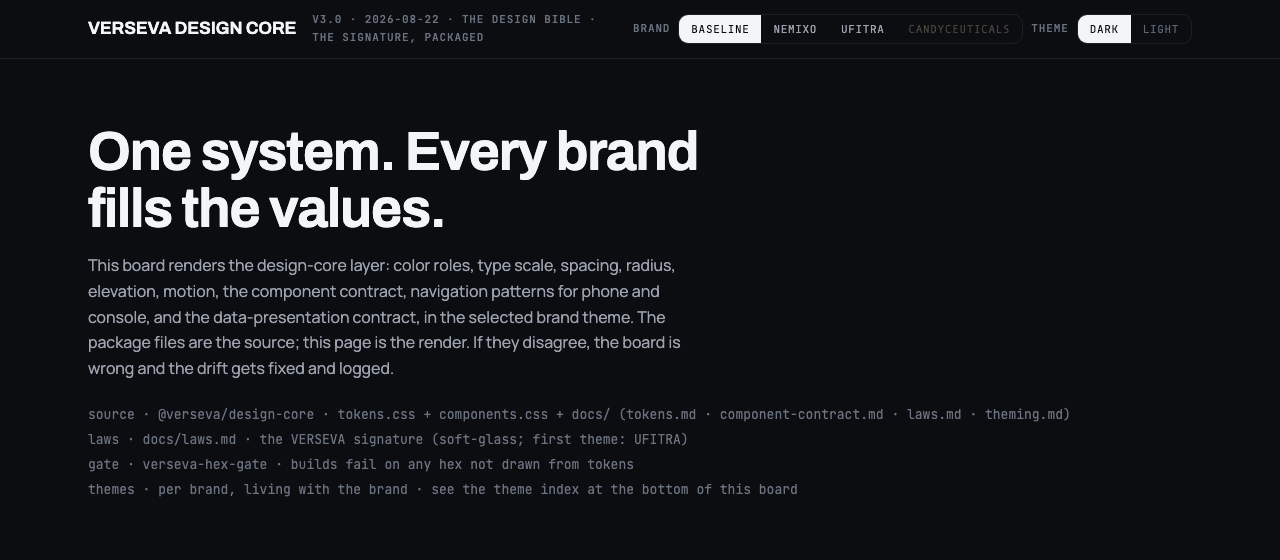
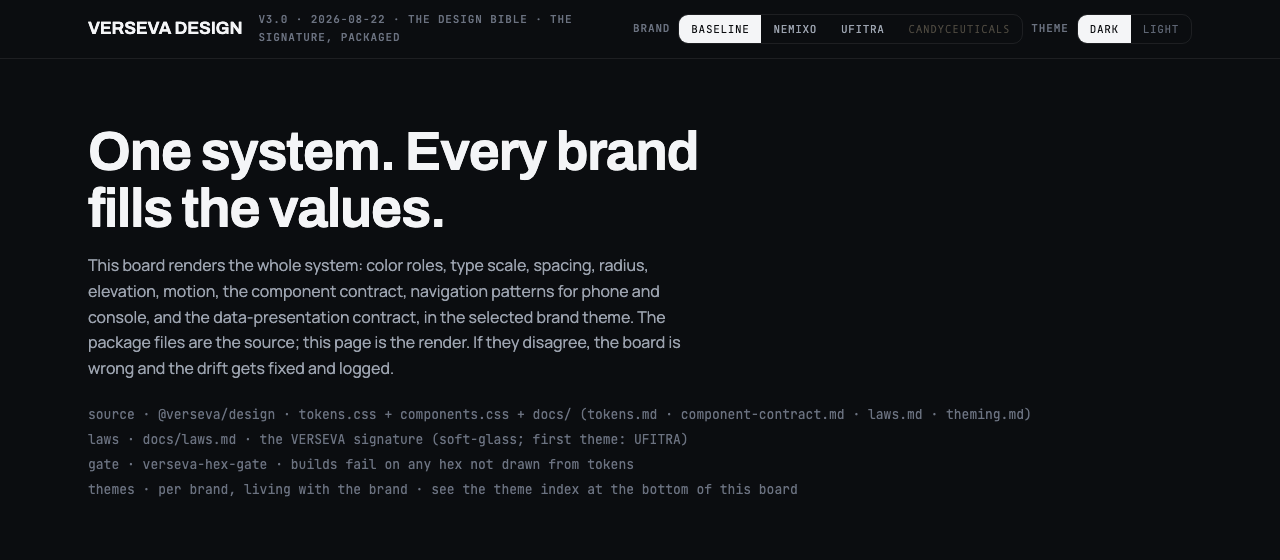
The package is @verseva/design
Simple, like the product: VERSEVA Design. Repo, product name, and npm name now
agree (verseva/design · VERSEVA Design · @verseva/design). All import
specifiers, docs, board chrome, and the hero screenshot updated; version
0.1.1; no value changes.

diff --git a/board/index.html b/board/index.html
@@ -3,7 +3,7 @@
 <head>
 <meta charset="utf-8">
 <meta name="viewport" content="width=device-width, initial-scale=1">
-<title>VERSEVA Design Core · Board</title>
+<title>VERSEVA Design · Board</title>
 <link rel="preconnect" href="https://fonts.googleapis.com">
 <link rel="preconnect" href="https://fonts.gstatic.com" crossorigin>
 <link rel="stylesheet" href="https://fonts.googleapis.com/css2?family=Archivo:wght@100..900&family=Manrope:wght@200..800&family=JetBrains+Mono:wght@100..800&display=swap">
@@ -427,7 +427,7 @@ footer.board .inner{max-width:var(--container-content);margin:0 auto;padding:var
 
 <header class="board">
   <div class="board-inner">
-    <div class="board-title">VERSEVA DESIGN CORE</div>
+    <div class="board-title">VERSEVA DESIGN</div>
     <div class="board-meta label">v3.0 · 2026-08-22 · the design bible · the signature, packaged</div>
     <div class="controls">
       <span class="label">Brand</span>
@@ -449,9 +449,9 @@ footer.board .inner{max-width:var(--container-content);margin:0 auto;padding:var
 <main>
   <section class="hero">
     <h1>One system. Every brand fills the values.</h1>
-    <p>This board renders the design-core layer: color roles, type scale, spacing, radius, elevation, motion, the component contract, navigation patterns for phone and console, and the data-presentation contract, in the selected brand theme. The package files are the source; this page is the render. If they disagree, the board is wrong and the drift gets fixed and logged.</p>
+    <p>This board renders the whole system: color roles, type scale, spacing, radius, elevation, motion, the component contract, navigation patterns for phone and console, and the data-presentation contract, in the selected brand theme. The package files are the source; this page is the render. If they disagree, the board is wrong and the drift gets fixed and logged.</p>
     <div class="paths">
-      <div>source · @verseva/design-core · tokens.css + components.css + docs/ (tokens.md · component-contract.md · laws.md · theming.md)</div>
+      <div>source · @verseva/design · tokens.css + components.css + docs/ (tokens.md · component-contract.md · laws.md · theming.md)</div>
       <div>laws · docs/laws.md · the VERSEVA signature (soft-glass; first theme: UFITRA)</div>
       <div>gate · verseva-hex-gate · builds fail on any hex not drawn from tokens</div>
       <div>themes · per brand, living with the brand · see the theme index at the bottom of this board</div>
@@ -783,9 +783,9 @@ footer.board .inner{max-width:var(--container-content);margin:0 auto;padding:var
     <table class="reg-table">
       <thead><tr><th>Brand</th><th>Status</th><th>Theme location</th></tr></thead>
       <tbody>
-        <tr><td>VERSEVA signature (Baseline)</td><td><span class="badge ok">Live</span></td><td class="path">@verseva/design-core tokens.css · the package default; every surface without a theme runs on it</td></tr>
+        <tr><td>VERSEVA signature (Baseline)</td><td><span class="badge ok">Live</span></td><td class="path">@verseva/design tokens.css · the package default; every surface without a theme runs on it</td></tr>
         <tr><td>NEMIXO (product: the ERP)</td><td><span class="badge ok">Live</span></td><td class="path">theme.css + design-register.md, with the brand · challenger ERP: opaque + hairline (no soft-glass), considered radii 6/8/12, accent is the mark's own gold #C4A37C</td></tr>
-        <tr><td>Engine</td><td><span class="badge ok">Live</span></td><td class="path">engine-ui-doctrine skill + engine repo token canon (predates design-core; canonical for engine)</td></tr>
+        <tr><td>Engine</td><td><span class="badge ok">Live</span></td><td class="path">engine-ui-doctrine skill + engine repo token canon (predates the package; canonical for engine)</td></tr>
         <tr><td>CandyCeuticals</td><td><span class="badge ok">Live</span></td><td class="path">theme.css + design-register.md, with the brand</td></tr>
         <tr><td>UFITRA</td><td><span class="badge ok">Live</span></td><td class="path">theme.css + design-register.md, with the brand · THE FIRST THEME of the signature</td></tr>
         <tr><td>Verseva</td><td><span class="badge neutral">Pending</span></td><td class="path">seed: dials 5/4/4 · Editorial-Minimal</td></tr>
@@ -798,7 +798,7 @@ footer.board .inner{max-width:var(--container-content);margin:0 auto;padding:var
     <div class="sec-head"><h2>Always true</h2><span class="label">the digest · doctrine lives upstream</span></div>
     <ol class="rules">
       <li><b>Hierarchy first.</b> Every surface answers "where do I look first" instantly. When principles conflict, hierarchy wins.</li>
-      <li><b>Roles are fixed, values are per-brand.</b> A new role gets proposed in design-core for everyone, or it doesn't exist.</li>
+      <li><b>Roles are fixed, values are per-brand.</b> A new role gets proposed in the package for everyone, or it doesn't exist.</li>
       <li><b>One accent per view</b>, with a budget. An accent that is everywhere has stopped being one.</li>
       <li><b>Contrast floors are contract.</b> 4.5:1 body, 3:1 large text and UI parts. The board computes them live.</li>
       <li><b>Every component ships every state.</b> Default, hover, active, focus-visible, disabled, loading, error. Plus empty/loading/error for every data surface.</li>
@@ -827,7 +827,7 @@ footer.board .inner{max-width:var(--container-content);margin:0 auto;padding:var
   <div class="inner">
     <div><b>Sync protocol:</b> the package files (tokens.css, components.css, docs/) and each brand's theme.css are the source; this board is the render. Token values arrive by &lt;link&gt;, so token drift is structurally impossible; specimen markup still updates in the same change as any contract edit. Themes are pulled from their brand homes by <code>npm run board</code> (machine-local board/theme-manifest.json; without one the board renders Baseline). New theme → manifest row + switcher entry. Drift is a defect: log it to design-core/learnings.md.</div>
     <div>Start here for any design work: tokens + contract + this board, then the brand's theme. Doctrine and theming guides live in this repo's docs/.</div>
-    <div>VERSEVA Design Core v3.0 · 2026-08-22 · lives at board/index.html in the verseva/design repo · the soft-glass signature re-homed as VERSEVA's own (first theme: UFITRA) · every design starts here and evolves from it · v3.0 extracts the system into @verseva/design-core (tokens.css · components.css · tailwind bridge · hex gate) and moves brand values into per-brand theme files</div>
+    <div>VERSEVA Design v3.0 · 2026-08-22 · lives at board/index.html in the verseva/design repo · the soft-glass signature re-homed as VERSEVA's own (first theme: UFITRA) · every design starts here and evolves from it · v3.0 extracts the system into @verseva/design (tokens.css · components.css · tailwind bridge · hex gate) and moves brand values into per-brand theme files</div>
   </div>
 </footer>
 

diff --git a/tokens.css b/tokens.css
@@ -1,5 +1,5 @@
 /* ============================================================================
-   @verseva/design-core · tokens.css
+   @verseva/design · tokens.css
    THE VERSEVA SIGNATURE. Dark default; [data-theme="light"] is the one flip
    block. Brand themes override values via [data-brand="<slug>"] blocks in
    their own theme.css (living with the brand), never by editing this file.
@@ -19,7 +19,7 @@
    floors 4.5:1 body / 3:1 large + UI parts.
 
    Provenance: extracted 2026-08-22 from design-core token-architecture.md +
-   the design board (ratified VERSEVA Design Core architecture, 2026-08-22).
+   the design board (ratified VERSEVA Design architecture, 2026-08-22).
    Zero visual change from the pre-package Baseline.
    ========================================================================= */
 

diff --git a/tailwind.css b/tailwind.css
@@ -1,9 +1,9 @@
 /* ============================================================================
-   @verseva/design-core · tailwind.css: Tailwind v4 bridge.
+   @verseva/design · tailwind.css: Tailwind v4 bridge.
    Usage in a v4 project's globals.css:
 
      @import "tailwindcss";
-     @import "@verseva/design-core/tailwind.css";
+     @import "@verseva/design/tailwind.css";
 
    Imports the signature tokens and maps roles into Tailwind namespaces so
    utilities stay on-token (bg-surface, text-text-2, border-hairline,

diff --git a/components.css b/components.css
@@ -1,5 +1,5 @@
 /* ============================================================================
-   @verseva/design-core · components.css
+   @verseva/design · components.css
    The component contract rendered as CSS. Framework-light: plain classes on
    the tokens; no build step required. Values are extracted VERBATIM from the
    design board's specimen CSS (board/index.html renders every class below in

diff --git a/README.md b/README.md
@@ -1,6 +1,6 @@
-# @verseva/design-core
+# VERSEVA Design
 
-The VERSEVA design signature as an installable package: design tokens, a component contract
+The VERSEVA design signature as an installable package (npm: `@verseva/design`): design tokens, a component contract
 shipped as CSS, Tailwind bridges, a rendered design board, and a build gate that fails CI on any
 hand-picked color. One system; every brand fills the values.
 
@@ -23,20 +23,20 @@ hand-picked color. One system; every brand fills the values.
 Pin a release tag; `main` moves ahead of the tags:
 
 ```bash
-npm i -D "git+ssh://git@github.com/verseva/design.git#v0.1.0"
+npm i -D "git+ssh://git@github.com/verseva/design.git#v0.1.1"
 ```
 
-(`#semver:^0.1.0` also works and tracks compatible tags.) CI environments without SSH access
+(`#semver:^0.1.1` also works and tracks compatible tags.) CI environments without SSH access
 to this private repo can vendor a packed tarball instead:
 
 ```bash
-npm pack path/to/verseva-design-core --pack-destination vendor
-npm i -D ./vendor/verseva-design-core-0.1.0.tgz
+npm pack path/to/this-repo-clone --pack-destination vendor
+npm i -D ./vendor/verseva-design-0.1.1.tgz
 ```
 
 > Known issue: Next.js/Turbopack panics on npm's symlinked `file:` installs
 > ("leaves the filesystem root"). Install from git or from a packed tarball, never
-> `npm i -D file:../verseva-design-core` directly.
+> `npm i -D file:../<clone>` directly.
 
 ## Quick start
 
@@ -46,7 +46,7 @@ npm i -D ./vendor/verseva-design-core-0.1.0.tgz
 ```css
 /* globals.css */
 @import "tailwindcss";
-@import "@verseva/design-core/tailwind.css";
+@import "@verseva/design/tailwind.css";
 ```
 
 **Tailwind v3** (two steps: the preset maps names only; `tokens.css` supplies the values —
@@ -54,23 +54,23 @@ the v4 bridge does this import internally):
 
 ```js
 // tailwind.config.js
-module.exports = { presets: [require('@verseva/design-core/preset')] };
+module.exports = { presets: [require('@verseva/design/preset')] };
 ```
 
 ```css
 /* globals.css */
-@import "@verseva/design-core/tokens.css";
+@import "@verseva/design/tokens.css";
 ```
 
 **Any other surface** — no build step (plain HTML, a deck, a prototype); bare package
 specifiers only resolve under a bundler, so link the files directly:
 
 ```html
-<link rel="stylesheet" href="node_modules/@verseva/design-core/tokens.css">
-<link rel="stylesheet" href="node_modules/@verseva/design-core/components.css">
+<link rel="stylesheet" href="node_modules/@verseva/design/tokens.css">
+<link rel="stylesheet" href="node_modules/@verseva/design/components.css">
 ```
 
-(In a bundled project's CSS, `@import "@verseva/design-core/tokens.css";` works as-is.)
+(In a bundled project's CSS, `@import "@verseva/design/tokens.css";` works as-is.)
 
 **Fonts** — the signature faces are Archivo, Manrope, and JetBrains Mono. The package names
 them but does not ship them; load the variable weights (the tokens use in-between weights like
@@ -263,7 +263,7 @@ Tailwind arbitrary values like `bg-[#12E4B0]`), and exits 1 on anything off-toke
 
 ```json
 "scripts": {
-  "lint:hex": "verseva-hex-gate --tokens node_modules/@verseva/design-core/tokens.css --tokens src/app/theme.css src",
+  "lint:hex": "verseva-hex-gate --tokens node_modules/@verseva/design/tokens.css --tokens src/app/theme.css src",
   "build": "npm run lint:hex && next build"
 }
 ```
@@ -333,7 +333,7 @@ registry dependency instead of a git URL:
 ```
 
 ```json
-"devDependencies": { "@verseva/design-core": "^0.1.0" }
+"devDependencies": { "@verseva/design": "^0.1.1" }
 ```
 
 On Vercel, set `NPM_TOKEN` in the project env and the same `.npmrc` just works.

diff --git a/docs/theming.md b/docs/theming.md
@@ -45,14 +45,14 @@ Partner theme files stay under partner org paths. Never conflate ownership.
 ```css
 /* Tailwind v4 app (globals.css) */
 @import "tailwindcss";
-@import "@verseva/design-core/tailwind.css";
+@import "@verseva/design/tailwind.css";
 @import "../path-to-brand/theme.css";   /* or copy it into the repo it themes */
 ```
 
 ```css
 /* Framework-light surface (deck, artifact, static page) */
-@import "@verseva/design-core/tokens.css";
-@import "@verseva/design-core/components.css";
+@import "@verseva/design/tokens.css";
+@import "@verseva/design/components.css";
 ```
 
 Non-JS surfaces (decks, artifacts) inline the same `tokens.css` content instead of importing.
@@ -63,7 +63,7 @@ Wire the hex gate into the consumer's build so off-token hexes fail it:
 
 ```json
 "scripts": {
-  "lint:hex": "verseva-hex-gate --tokens node_modules/@verseva/design-core/tokens.css --tokens src/app/theme.css src",
+  "lint:hex": "verseva-hex-gate --tokens node_modules/@verseva/design/tokens.css --tokens src/app/theme.css src",
   "build": "npm run lint:hex && next build"
 }
 ```

diff --git a/docs/tokens.md b/docs/tokens.md
@@ -112,6 +112,6 @@ while materials disagree is the recorded failure mode.
 
 ## Tailwind
 
-v4: `@import "@verseva/design-core/tailwind.css"` (maps roles into `@theme inline`; radius roles
-emit as `--radius-*`). v3: `presets: [require('@verseva/design-core/preset')]`. Spacing rides
+v4: `@import "@verseva/design/tailwind.css"` (maps roles into `@theme inline`; radius roles
+emit as `--radius-*`). v3: `presets: [require('@verseva/design/preset')]`. Spacing rides
 Tailwind's own 4px scale (p-1 = `--s-1` … p-32 = `--s-10`).
